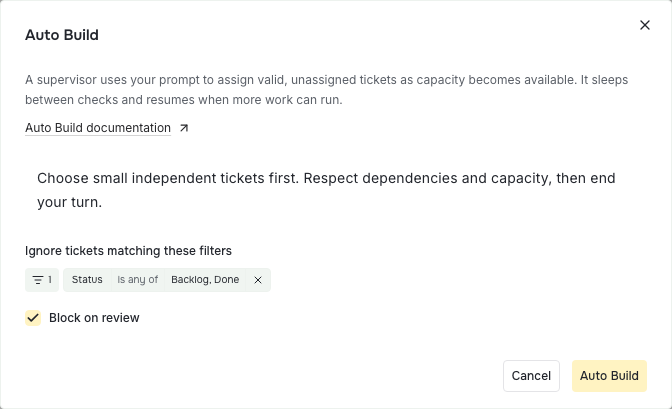
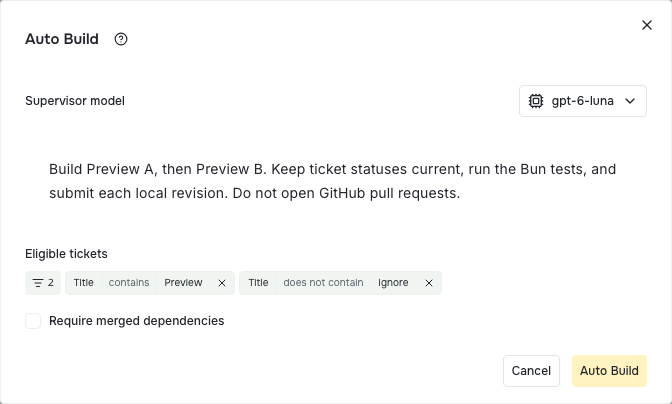
fix(PS-709): focus the performance popover when it opens; refresh the Auto Build modal screenshot

diff --git a/extensions/pstdio-planner/docs/0007-auto-build.md b/extensions/pstdio-planner/docs/0007-auto-build.md
@@ -44,7 +44,7 @@ Implementation follows the project's Planner settings, including adversarial rev
 
 The header button always says **Auto Build**. It shows a Play icon when Auto Build is stopped without an error. While Auto Build is on, or after an error, it shows a colored status indicator: the session spinner while work runs, a blue moon while the supervisor sleeps, a red mark if the supervisor fails, and a green check when the run is complete. A run is complete when every ticket in the supervisor's saved scope has a completed status. Reopening one of those tickets clears the check. Click the button to open a modal with a separate supervisor row and running ticket sessions. Each row uses the normal session status icon and color. The modal shows used capacity and its limit. Click a session to inspect it.
 
-Click the small **Stop Auto Build** button with the pause icon in the modal footer to prevent future supervisor prompts and automatic dispatches. Running sessions continue. Stopping does not cancel their work or discard changes. Starting again creates a fresh supervisor conversation and leaves the previous conversation available in session history.
+Click the small **Stop** button with the pause icon in the modal footer to prevent future supervisor prompts and automatic dispatches. Running sessions continue. Stopping does not cancel their work or discard changes. Starting again creates a fresh supervisor conversation and leaves the previous conversation available in session history.
 
 Auto Build keeps working when you close the timeline and resumes its checks after restarting Prompt Studio. Starting it again preserves your prompt, supervisor model, eligibility filters, and the merged-dependencies choice. A run saved before eligible filters existed stays stopped until you configure it.
 

diff --git a/.changeset/thick-worlds-invent.md b/.changeset/thick-worlds-invent.md
@@ -4,4 +4,4 @@
 "pstdio": patch
 ---
 
-Use an Auto Build modal with eligibility filters, title help, and a selectable supervisor model.
+Use an Auto Build modal with eligibility filters, title help, and a selectable supervisor model; keep keyboard focus in the performance popover when it opens.
